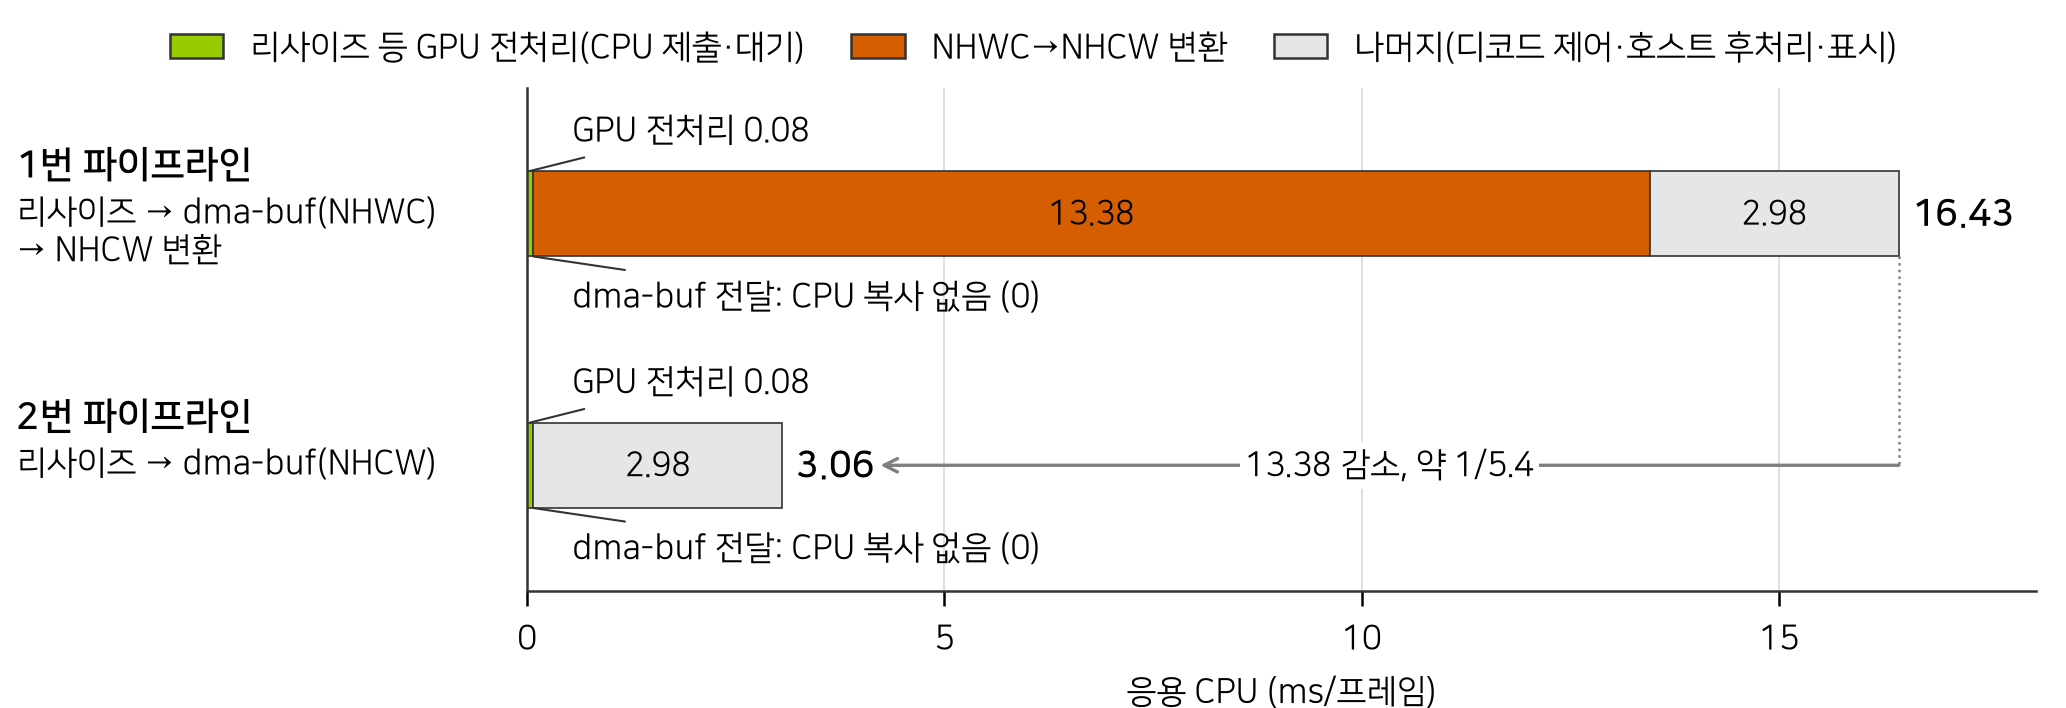
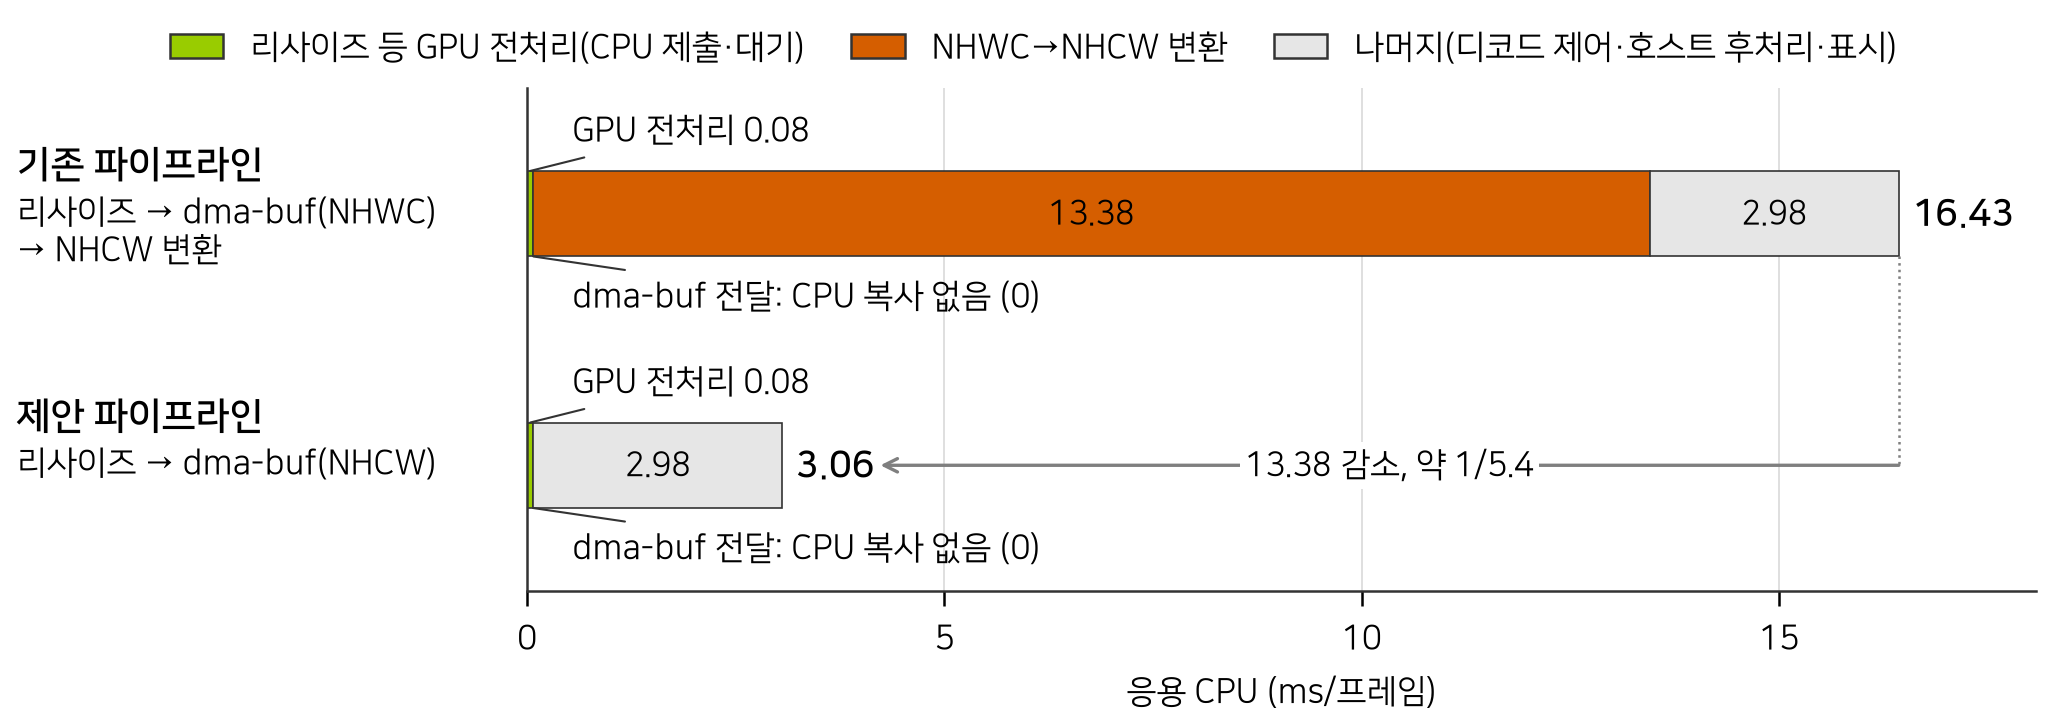
paper(그림 13): 행 이름을 기존 파이프라인·제안 파이프라인으로 변경
Claude-Session: https://claude.ai/code/session_01HrRftuyxzwud5AoujnGMPw

Changed region(s): [[0.0, 0.5593, 0.1239, 0.6215], [0.0, 0.1864, 0.1239, 0.2797]]

diff --git a/06_tools/python/paper/fig13_input_layout_paths.py b/06_tools/python/paper/fig13_input_layout_paths.py
@@ -116,8 +116,8 @@ def main(out_dir: str | Path | None = None) -> list[Path]:
     ax.text((arrow_end + v["total_1"]) / 2, 1, ratio_text, ha="center", va="center",
             bbox={"boxstyle": "square,pad=0.15", "fc": "white", "ec": "none"})
 
-    for y, name, steps in ((0, "1번 파이프라인", "리사이즈 → dma-buf(NHWC)\n→ NHCW 변환"),
-                           (1, "2번 파이프라인", "리사이즈 → dma-buf(NHCW)")):
+    for y, name, steps in ((0, "기존 파이프라인", "리사이즈 → dma-buf(NHWC)\n→ NHCW 변환"),
+                           (1, "제안 파이프라인", "리사이즈 → dma-buf(NHCW)")):
         ax.text(ROW_NAME_X, y - STEP_OFFSET, name, transform=to_fig_data, ha="left", va="bottom", fontsize=ps.TITLE_SIZE,
                 fontweight="bold", clip_on=False)
         ax.text(ROW_NAME_X, y - STEP_OFFSET + 0.03, steps, transform=to_fig_data, ha="left", va="top", clip_on=False)

diff --git a/10_paper/paper_ko.md b/10_paper/paper_ko.md
@@ -871,7 +871,7 @@ NHCW 경로에서는 **샘플 0건**으로 사라졌다. 총 사이클은 13.1 G
 
 ![그림 13. 입력 레이아웃에 따른 단계별 응용 CPU](figures/fig13_input_layout_paths.svg)
 
-**그림 13.** 입력 레이아웃에 따른 단계별 응용 CPU. 1번은 NHWC로 넘겨 런타임이 CPU에서 NHCW로 변환하고, 2번은 GPU가 처음부터 NHCW로 내보낸다. 양쪽 모두 호스트 후처리다(GPU 후처리는 NHCW 입력 전용). 응용 CPU이므로 GPU·NPU 실행 시간은 포함하지 않는다. 전체 값만 직접 쟀다. 변환(13.38)은 두 구성의 차이고, 나머지(2.98)는 2번 전체에서 GPU 전처리를 뺀 값으로 양쪽이 같다고 가정하였다. 그래서 변환에는 NPU 대기 양상 변화 등 순수 변환 외의 차이가 섞일 수 있다. GPU 전처리(0.08)는 NPU·표시를 쓰지 않은 별도 측정값이다. dma-buf 전달은 CPU 복사가 없어 막대 폭이 없다. 값은 처리 프레임 기준이고, 반올림 때문에 표시값의 합은 전체와 0.01 다를 수 있다. (측정: 2026-11-06, 배치 1/슬롯 1, 입력 페이싱, 입력 큐 1, 표시·기록 on, GPU 1150 MHz, CPU 거버너 performance, `video_h265.mp4`, 반복 n=3, 원본: `07_results/technique_ablation`, `07_results/preproc_cpu_vs_gpu/runs/stage_split`)
+**그림 13.** 입력 레이아웃에 따른 단계별 응용 CPU. 기존 파이프라인은 NHWC로 넘겨 런타임이 CPU에서 NHCW로 변환하고, 제안 파이프라인은 GPU가 처음부터 NHCW로 내보낸다. 양쪽 모두 호스트 후처리다(GPU 후처리는 NHCW 입력 전용). 응용 CPU이므로 GPU·NPU 실행 시간은 포함하지 않는다. 전체 값만 직접 쟀다. 변환(13.38)은 두 구성의 차이고, 나머지(2.98)는 제안 파이프라인 전체에서 GPU 전처리를 뺀 값으로 양쪽이 같다고 가정하였다. 그래서 변환에는 NPU 대기 양상 변화 등 순수 변환 외의 차이가 섞일 수 있다. GPU 전처리(0.08)는 NPU·표시를 쓰지 않은 별도 측정값이다. dma-buf 전달은 CPU 복사가 없어 막대 폭이 없다. 값은 처리 프레임 기준이고, 반올림 때문에 표시값의 합은 전체와 0.01 다를 수 있다. (측정: 2026-11-06, 배치 1/슬롯 1, 입력 페이싱, 입력 큐 1, 표시·기록 on, GPU 1150 MHz, CPU 거버너 performance, `video_h265.mp4`, 반복 n=3, 원본: `07_results/technique_ablation`, `07_results/preproc_cpu_vs_gpu/runs/stage_split`)
 
 ## 6.5 호스트 NMS 비용과 GPU 이관
 
